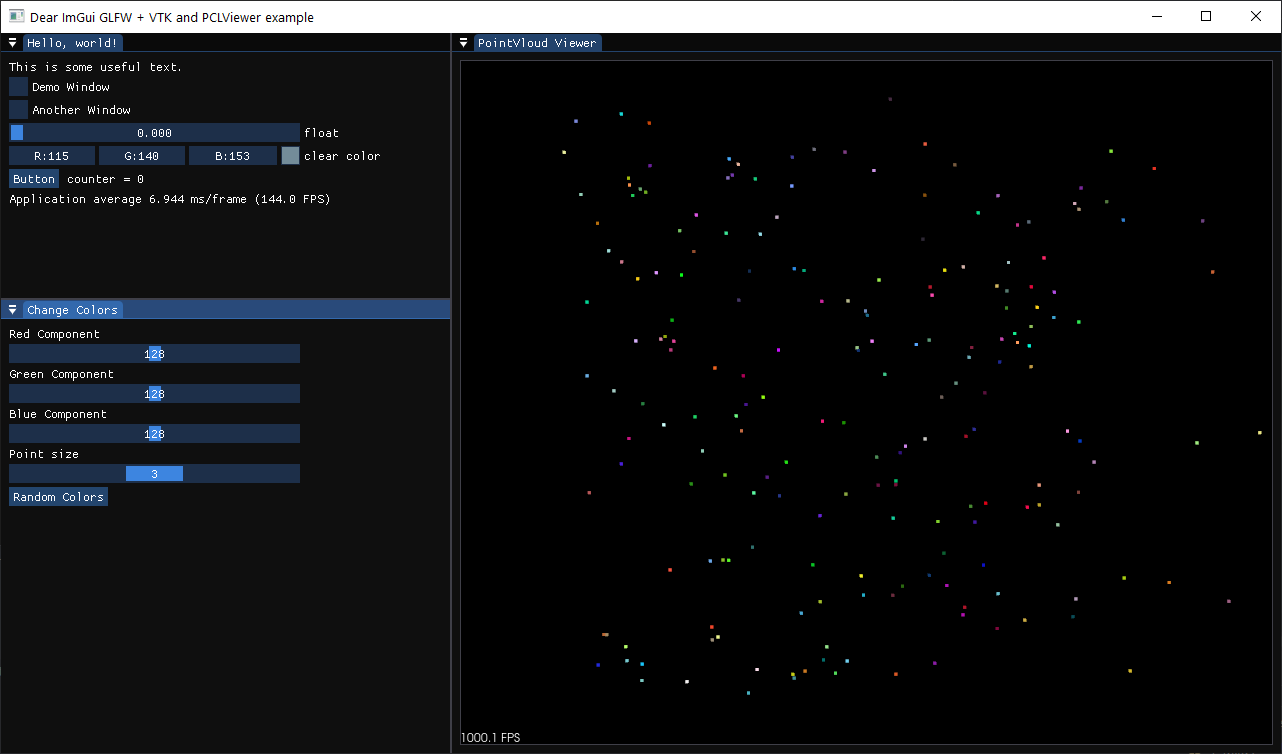
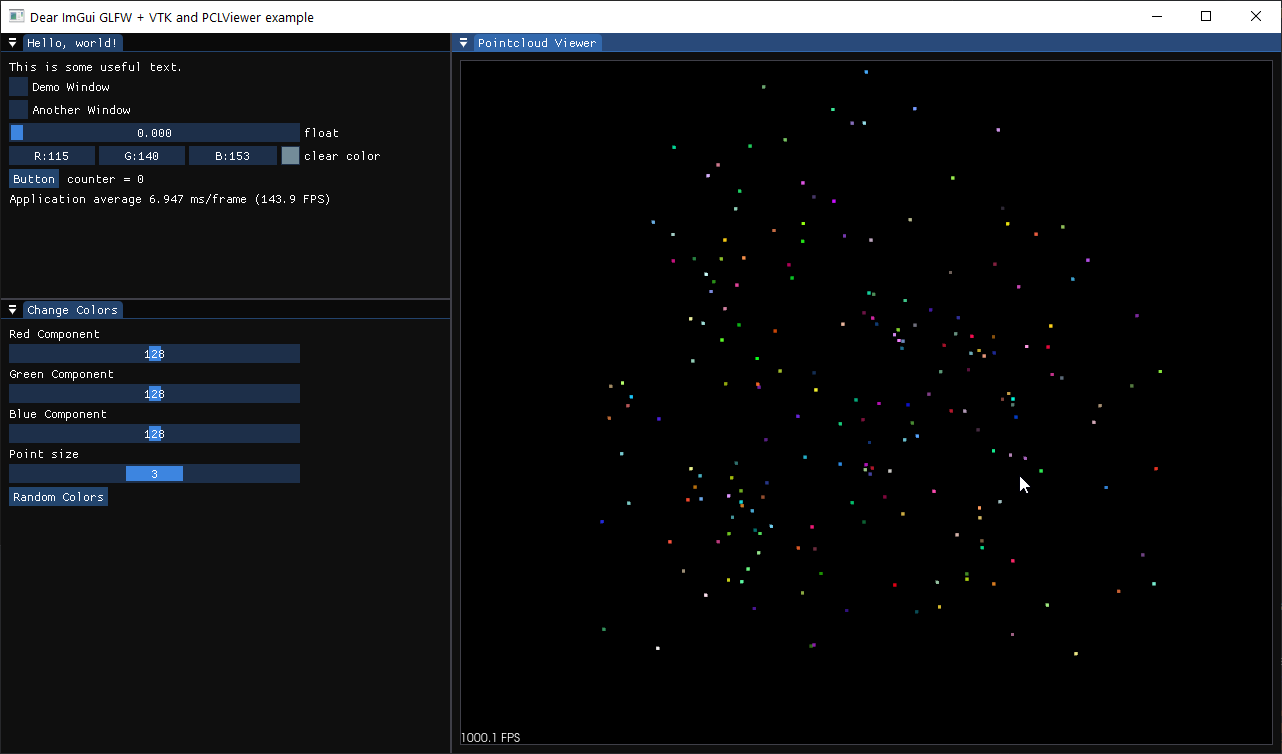
Fixed typo

diff --git a/src/imgui-pcl.cpp b/src/imgui-pcl.cpp
@@ -242,7 +242,7 @@ int main(int, char**)
 
         // 4. Show a simple VtkViewer Instance (Always Open)
         ImGui::SetNextWindowSize(ImVec2(360, 240), ImGuiCond_FirstUseEver);
-        ImGui::Begin("PointVloud Viewer", nullptr, VtkViewer::NoScrollFlags());
+        ImGui::Begin("Pointcloud Viewer", nullptr, VtkViewer::NoScrollFlags());
         vtkViewer1.render();
 
         //loudViewer.RenderUI(); // default render size = ImGui::GetContentRegionAvail()
